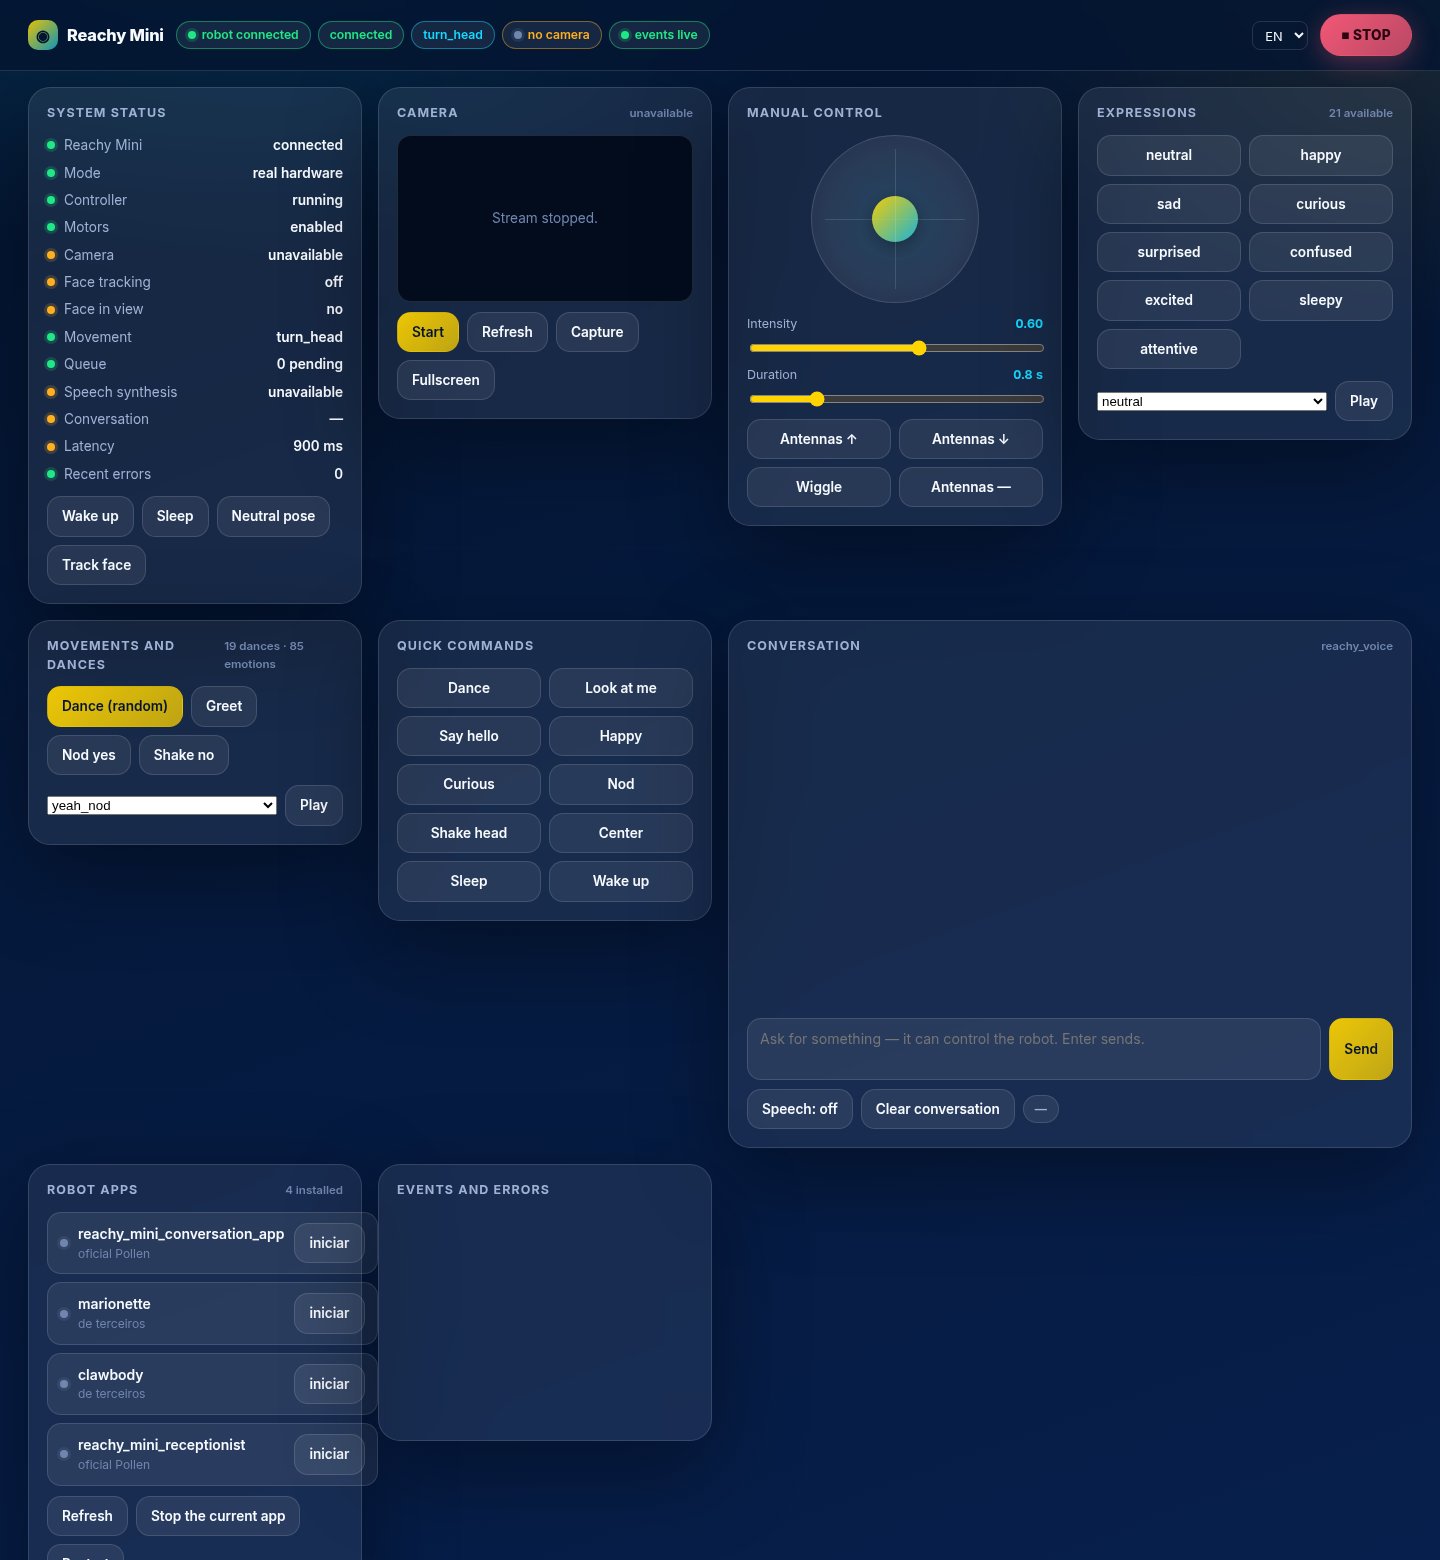
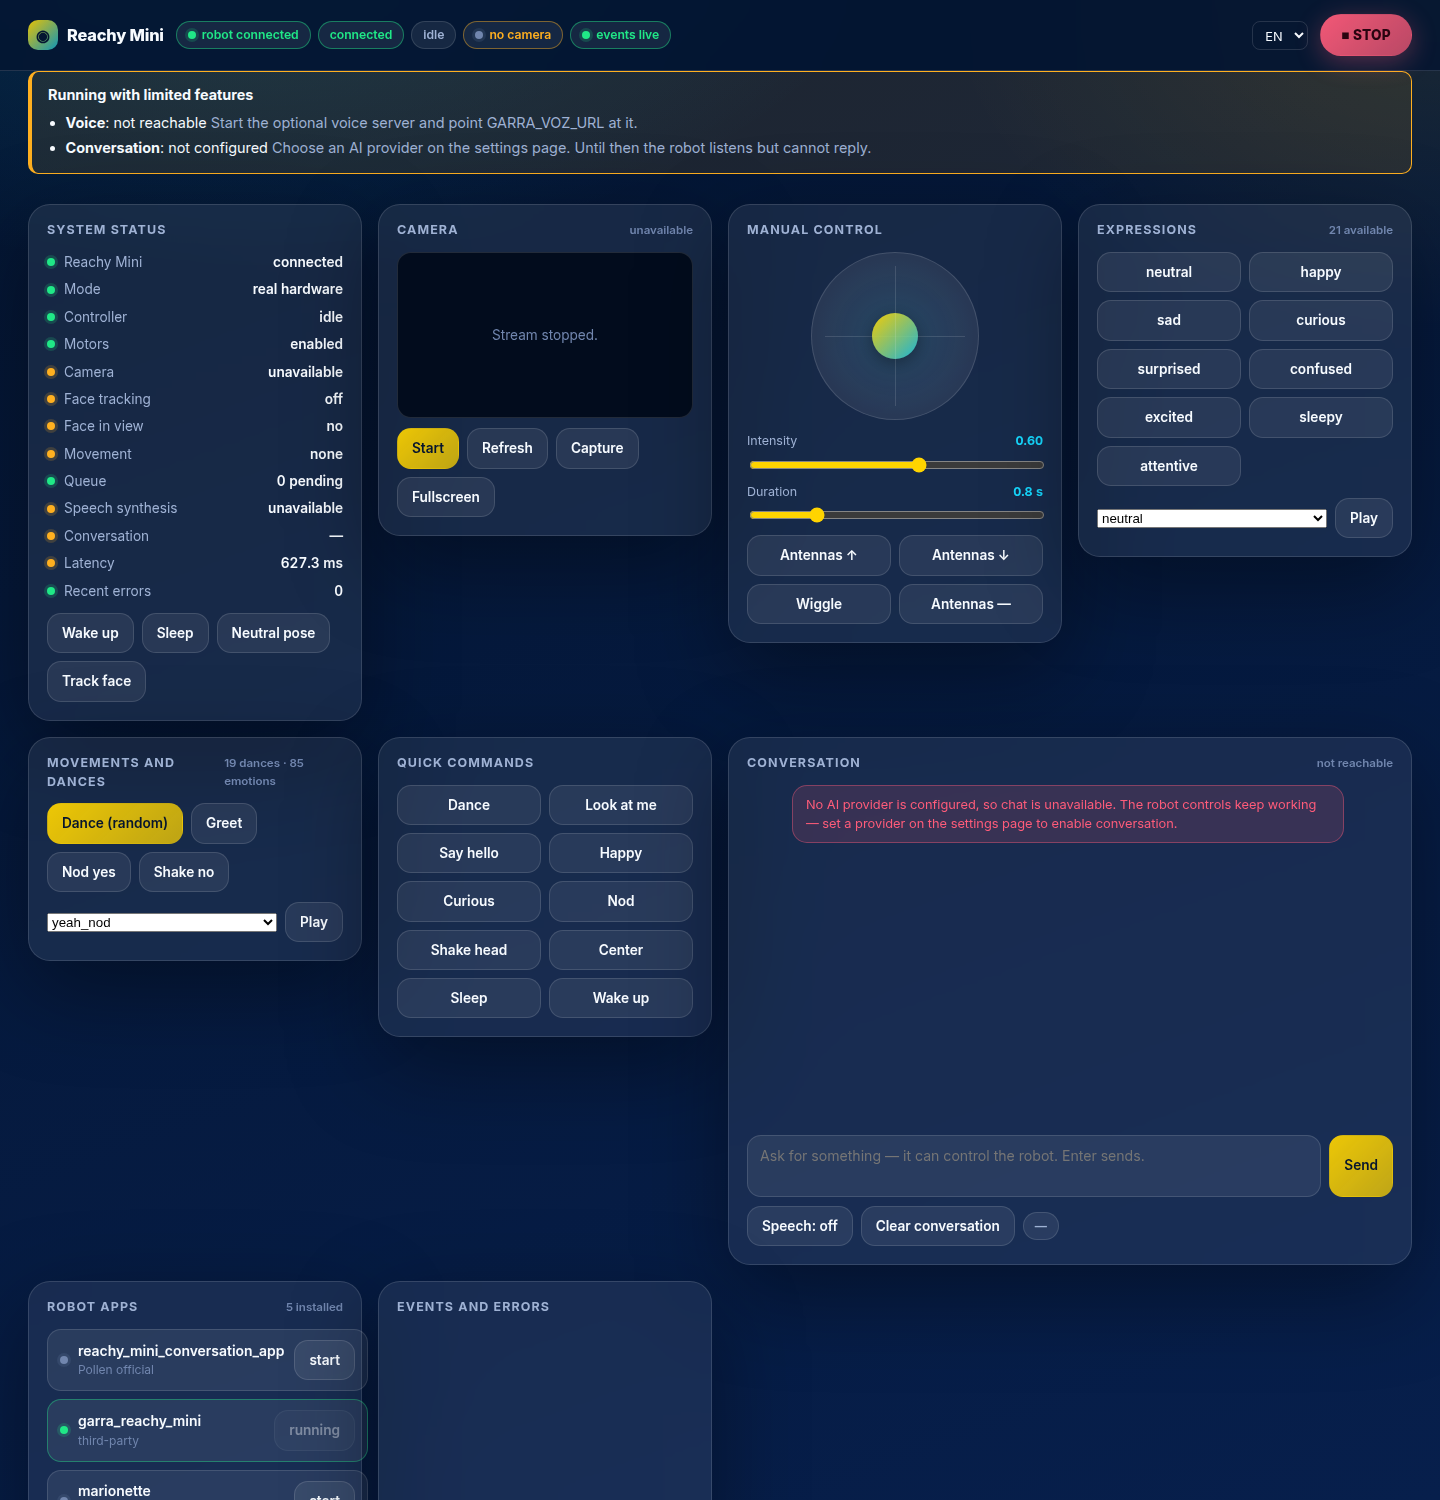
Use a real screenshot from the robot as the hero image
Taken from a fresh install on the wireless Reachy Mini with nothing
configured, so the README shows what a new user actually gets: full
robot control, the real 85-emotion and 19-dance libraries, and a
banner naming the two optional pieces that are missing.

diff --git a/README.md b/README.md
@@ -23,12 +23,11 @@ require services you provide; the panel tells you exactly which ones are missing
 and what to do about each. Nothing is sent anywhere until you configure a
 provider yourself.
 
-![The control panel, connected to a real robot](assets/screenshots/panel.png)
+![The control panel running on a Reachy Mini](assets/screenshots/panel.png)
 
-With no AI provider and no voice server configured, the app still runs — it
-just says so, and names what is missing:
-
-![Limited mode](assets/screenshots/limited-mode.png)
+That is a real screenshot of a fresh install with nothing configured: the robot,
+its 85 emotions, 19 dances and camera are all there, and the banner names the
+two optional pieces that are not, with what to do about each.
 
 ## Features
 
